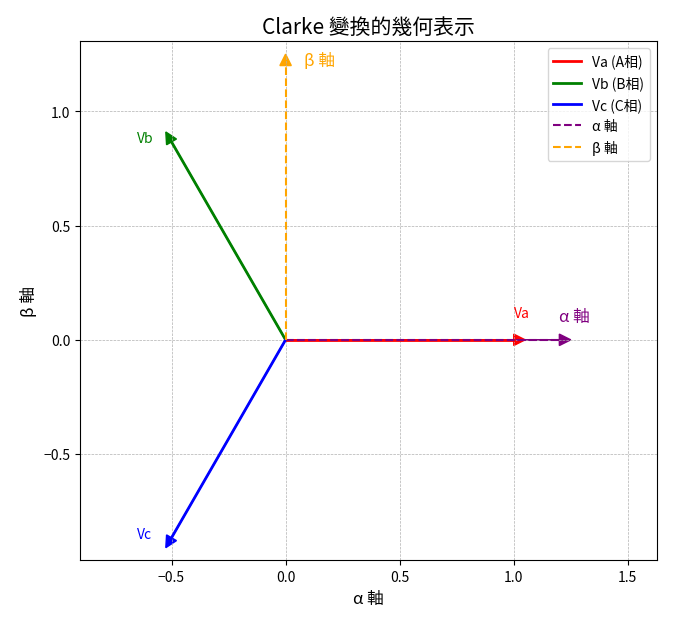
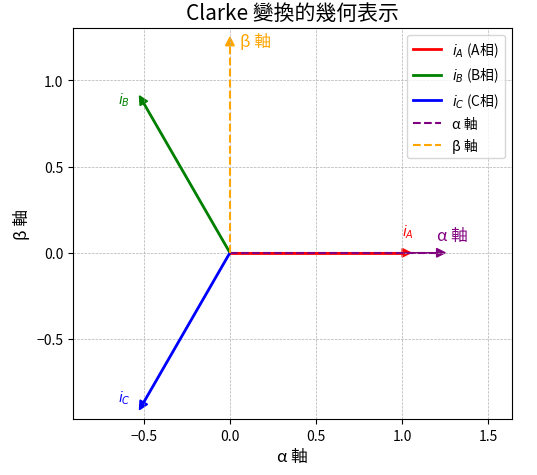
continue re-write doc about clarke transmation

diff --git a/study/gen_ClarkeCoordinateSystem.py b/study/gen_ClarkeCoordinateSystem.py
@@ -10,18 +10,18 @@ def create_clarke_transformation_plot():
     plt.title('Clarke 變換的幾何表示', fontsize=15)
 
     # 三相電壓向量（120度間隔）
-    Va = np.array([1, 0])  # A相
-    Vb = np.array([-0.5, np.sqrt(3)/2])  # B相
-    Vc = np.array([-0.5, -np.sqrt(3)/2])  # C相
+    Ia = np.array([1, 0])  # A相
+    Ib = np.array([-0.5, np.sqrt(3)/2])  # B相
+    Ic = np.array([-0.5, -np.sqrt(3)/2])  # C相
 
     # 更精確的向量繪製
-    plt.plot([0, Va[0]], [0, Va[1]], color='red', linewidth=2, label='Va (A相)')
-    plt.plot([0, Vb[0]], [0, Vb[1]], color='green', linewidth=2, label='Vb (B相)')
-    plt.plot([0, Vc[0]], [0, Vc[1]], color='blue', linewidth=2, label='Vc (C相)')
+    plt.plot([0, Ia[0]], [0, Ia[1]], color='red', linewidth=2, label='$i_A$ (A相)')
+    plt.plot([0, Ib[0]], [0, Ib[1]], color='green', linewidth=2, label='$i_B$ (B相)')
+    plt.plot([0, Ic[0]], [0, Ic[1]], color='blue', linewidth=2, label='$i_C$ (C相)')
 
-    plt.text(Va[0], Va[1]+0.1, 'Va', color='red', fontsize=10)
-    plt.text(Vb[0]-0.15, Vb[1], 'Vb', color='green', fontsize=10)
-    plt.text(Vc[0]-0.15, Vc[1], 'Vc', color='blue', fontsize=10)
+    plt.text(Ia[0], Ia[1]+0.1, '$i_A$', color='red', fontsize=10)
+    plt.text(Ib[0]-0.15, Ib[1], '$i_B$', color='green', fontsize=10)
+    plt.text(Ic[0]-0.15, Ic[1], '$i_C$', color='blue', fontsize=10)
 
     # α軸（藍紫色）
     plt.plot([0, 1.2], [0, 0], color='purple', linestyle='--', linewidth=1.5, label='α 軸')
@@ -32,9 +32,9 @@ def create_clarke_transformation_plot():
     plt.text(0.15, 1.2, 'β 軸', color='orange', fontsize=12, horizontalalignment='center')
 
     # 箭頭
-    plt.arrow(0, 0, Va[0], Va[1], head_width=0.05, head_length=0.05, fc='red', ec='red')
-    plt.arrow(0, 0, Vb[0], Vb[1], head_width=0.05, head_length=0.05, fc='green', ec='green')
-    plt.arrow(0, 0, Vc[0], Vc[1], head_width=0.05, head_length=0.05, fc='blue', ec='blue')
+    plt.arrow(0, 0, Ia[0], Ia[1], head_width=0.05, head_length=0.05, fc='red', ec='red')
+    plt.arrow(0, 0, Ib[0], Ib[1], head_width=0.05, head_length=0.05, fc='green', ec='green')
+    plt.arrow(0, 0, Ic[0], Ic[1], head_width=0.05, head_length=0.05, fc='blue', ec='blue')
     plt.arrow(0, 0, 1.2, 0, head_width=0.05, head_length=0.05, fc='purple', ec='purple')
     plt.arrow(0, 1.2, 0, 0, head_width=0.05, head_length=0.05, fc='orange', ec='orange')
 

diff --git a/Firmware/MotorControl/clarke.rst b/Firmware/MotorControl/clarke.rst
@@ -3,53 +3,69 @@ Clarke 變換
 
 **1. 為何需要 Clarke 變換？**
 
-在三相平衡交流系統中，通常會有三個相電壓/電流（Va, Vb, Vc），它們是彼此相差 120° 的正弦波。然而，這三個變數並非完全獨立，它們本身也受 **克希荷夫電流定律 (KCL)** 限制。把負載看成單一節點使用，所以一定會滿足 **KCL**：
+在三相平衡交流系統中，通常會有三個相電壓/電流（ :math:`i_A, i_B, i_C` ），它們是彼此相差 120° 的正弦波。然而，這三個變數並非完全獨立，它們本身也受 **克希荷夫電流定律 (KCL)** 限制。
+從馬達的三相看，電流一定是任意一相或兩相流入，配合另外兩相或一相流出，所以一定會滿足 **KCL**。
 
-.. math::
-   V_a + V_b + V_c = 0
+三相電機控制中，三相電流在物理上代表一個旋轉向量( :math:`i_A,i_B,i_C` )，Clarke 變換的目標是把三相電流轉換成二維正交坐標系 ( :math:`i_\alpha,i_\beta` )，這樣可以用二維空間來描述三相電流的變化，可以更容易處理旋轉坐標的問題。
 
-由於這個限制，三個變數中只有兩個是獨立的。**Clarke 變換** 的目的就是找到一個 **變換矩陣 T**，將三相電壓/電流 (Va, Vb, Vc) 轉換到一個二維的正交 **α-β 靜止坐標系** (Vα, Vβ) 中：
+基於 **KCL**，三個變數中只有兩個是獨立的。**Clarke 變換** 的目的就是找到一個 **變換矩陣 T**，將三相電壓/電流 ( :math:`i_A,i_B,i_C` ) 轉換到一個二維的正交 **α-β 靜止坐標系** ( :math:`i_\alpha,i_\beta` ) 中：
 
 .. math::
    \left[
    \begin{matrix}
-    V_\alpha \\
-    V_\beta
+    i_\alpha \\
+    i_\beta
    \end{matrix}
    \right]
    = T *
    \left[
    \begin{matrix}
-   V_a \\
-   V_b \\
-   V_c
+   i_A \\
+   i_B \\
+   i_C
    \end{matrix}
    \right]
 
-這樣做的優點是，我們可以使用兩個獨立的變數 :math:`\left(\textbf{V$_\mathbf{\alpha}, V_\mathbf{\beta}$}\right)` 在二維平面上 **完整地描述** 原始三相系統的電壓/電流資訊，簡化後續的分析和控制。
+這樣做的優點是，我們可以使用兩個獨立的變數 :math:`\left(\textbf{i}_\mathbf{\alpha}, \textbf{i}_\mathbf{\beta}\right)` 在二維平面上 **完整地描述** 原始三相系統的電壓/電流資訊，簡化後續的分析和控制。
 
 **2. 幾何直覺**
 
 為了更好地理解 Clarke 變換，我們可以從幾何的角度來看：
 
--   **原始三相坐標 (Va, Vb, Vc)**：每一相電壓可以想像成對應到一個基底向量，這些向量之間相隔 120°。
+-   **原始三相坐標** ( :math:`\mathbf{i_A, i_B, i_C}` )：每一相電流可以想像成對應到一個基底向量，這些向量之間相隔 **120°**。
+
+.. math::
+   0 &= i_A + i_B + i_C　\\
+   \omega &= 2{\pi}f \\
+   i_A &= sin({\omega}t + \theta) \\
+   i_B &= sin({\omega}t + \theta - \frac{2\pi}{\sqrt{3}}) \\
+   i_B &= sin({\omega}t + \theta + \frac{2\pi}{\sqrt{3}})
+
 -   **目標 α-β 二維坐標系**：我們希望建立一個 **正交基底** 來表示新的二維系統，方便分析：
 
-    -   **α 軸**：方向與 A 相（Va）相同。
+    -   **α 軸**：方向與 A 相（ :math:`i_A` ）相同。
     -   **β 軸**：方向與 α 軸正交。
 
 .. image:: ../../study/ClarkeCoordinateSystem_01.png
 
 
-Clarke 變換的幾何意義就是將原始三相系統中的每個相電壓 **投影** 到這個新的正交 α 和 β 軸上，得到它們在二維平面上的分量 Vα 和 Vβ。
+Clarke 變換的幾何意義就是將原始三相系統中的每個相電流 **投影** 到這個新的正交 :math:`\mathbf{\alpha}` 和 :math:`\mathbf{\beta}` 軸上，
+得到它們在二維平面上的分量 :math:`i_\mathbf{\alpha}` 和 :math:`i_\mathbf{\beta}`。
 
 **3. 基底向量推導**
 
 根據上述幾何直覺，我們可以推導出 Clarke 變換的基底向量和轉換矩陣：
 
--   **Va 的基底表示**: :math:`\left(\begin{matrix} 1_, 0\end{matrix}\right)`
--   **Vb 的基底表示**: :math:`\left(\begin{matrix} -\frac{1}{2}_, \frac{\sqrt{3}}{2}\end{matrix}\right)`
--   **Vc 的基底表示**: :math:`\left(\begin{matrix} -\frac{1}{2}_, -\frac{\sqrt{3}}{2}\end{matrix}\right)`
+-   :math:`\textbf{i}_A` **的基底表示**: :math:`\left(\begin{matrix} 1,& 0\end{matrix}\right)`
+
+    將 :math:`i_A 同樣對齊 \alpha軸`, 可以得到下面投影
+
+    .. math::
+      \alpha 軸&: cos(0^\circ) &= 1 \\
+      \beta 軸&: sin(0^\circ) &= 0
+
+-   :math:`\textbf{i}_B` **的基底表示**: :math:`\left(\begin{matrix} -\frac{1}{2},& -\frac{\sqrt{3}}{2}\end{matrix}\right)`
+-   :math:`\textbf{i}_C` **的基底表示**: :math:`\left(\begin{matrix} -\frac{1}{2},& \frac{\sqrt{3}}{2}\end{matrix}\right)`
 
 基於這些基底向量，我們可以 **構造出 Clarke 變換的矩陣 T**：
 
